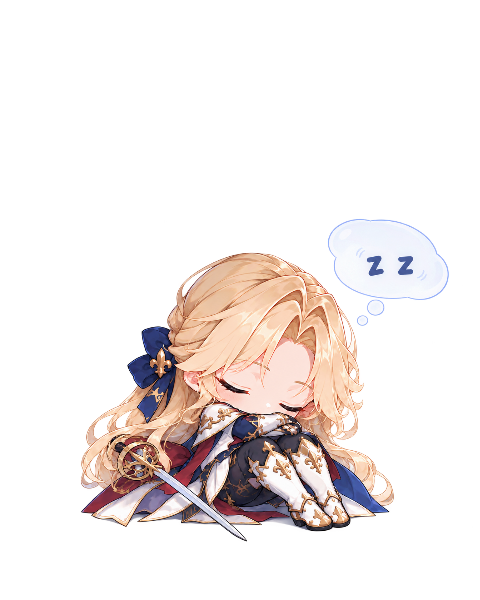
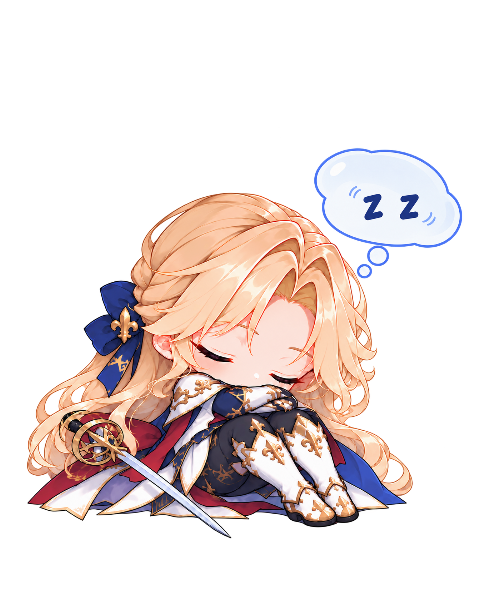
fix: normalize sleep loop frame seven

Changed region(s): [[0.0312, 0.24, 0.9688, 0.9]]

diff --git a/tools/Charlotte.AssetPrep/Program.cs b/tools/Charlotte.AssetPrep/Program.cs
@@ -23,7 +23,10 @@ internal static class Program
     {
         if(args.Length==1 && args[0]=="--list")
         {
-            foreach(var item in Plan) Console.WriteLine($"{item.SourceRelative} -> {item.OutputRelative}");
+            foreach(var item in Plan)
+                Console.WriteLine(item.ProjectOverrideRelative is null
+                    ? $"{item.SourceRelative} -> {item.OutputRelative}"
+                    : $"{item.ProjectOverrideRelative.Replace('\\','/')} => {item.OutputRelative}");
             Console.WriteLine($"Mapped frames: {Plan.Count}");
             return Plan.Count==77?0:1;
         }
@@ -59,17 +62,20 @@ internal static class Program
             var records=new List<SourceRecord>(Plan.Count);
             foreach(var item in Plan)
             {
-                var sourcePath=Path.GetFullPath(Path.Combine(sourceRoot,item.SourceRelative));
-                if(!sourcePath.StartsWith(sourceRoot.TrimEnd(Path.DirectorySeparatorChar)+Path.DirectorySeparatorChar,StringComparison.OrdinalIgnoreCase))
-                    throw new InvalidDataException($"Mapped source escapes reference root: {item.SourceRelative}");
-                if(!File.Exists(sourcePath)) throw new FileNotFoundException($"Mapped source is missing: {item.SourceRelative}");
+                var sourcePath=item.ProjectOverrideRelative is null
+                    ? Path.GetFullPath(Path.Combine(sourceRoot,item.SourceRelative))
+                    : Path.GetFullPath(Path.Combine(parent,item.ProjectOverrideRelative));
+                var expectedRoot=item.ProjectOverrideRelative is null?sourceRoot:parent;
+                if(!sourcePath.StartsWith(expectedRoot.TrimEnd(Path.DirectorySeparatorChar)+Path.DirectorySeparatorChar,StringComparison.OrdinalIgnoreCase))
+                    throw new InvalidDataException($"Mapped source escapes its root: {item.SourceRelative}");
+                if(!File.Exists(sourcePath)) throw new FileNotFoundException($"Mapped source is missing: {item.ProjectOverrideRelative??item.SourceRelative}");
 
                 var source=LoadAlphaPng(sourcePath);
                 var outputPath=Path.Combine(staging,item.OutputRelative);
                 Directory.CreateDirectory(Path.GetDirectoryName(outputPath)!);
                 Save(Render(source,item),outputPath);
                 records.Add(new(
-                    item.SourceRelative.Replace('\\','/'),
+                    item.ProjectOverrideRelative is null?item.SourceRelative.Replace('\\','/'):$"project:{item.ProjectOverrideRelative.Replace('\\','/')}",
                     item.OutputRelative.Replace('\\','/'),
                     Convert.ToHexString(SHA256.HashData(File.ReadAllBytes(sourcePath))).ToLowerInvariant(),
                     source.PixelWidth,
@@ -78,7 +84,7 @@ internal static class Program
                     CanvasHeight,
                     CenterX,
                     GroundY,
-                    item.PreserveExportScale?"sleep-loop-07-transparent-margin-repair":"family-fixed"));
+                    "family-fixed"));
             }
 
             var map=new SourceMap(1,"formal-v1",Plan.Count,records);
@@ -132,11 +138,11 @@ internal static class Program
 
     private static RenderTargetBitmap Render(BitmapSource source,PlanEntry item)
     {
-        var correction=item.PreserveExportScale?1:Math.Min(1,Math.Min(item.CanonicalWidth/source.PixelWidth,item.CanonicalHeight/source.PixelHeight));
+        var correction=Math.Min(1,Math.Min(item.CanonicalWidth/source.PixelWidth,item.CanonicalHeight/source.PixelHeight));
         var canonicalScale=Math.Min(ContentWidth/item.CanonicalWidth,ContentHeight/item.CanonicalHeight);
         var width=source.PixelWidth*correction*canonicalScale;
         var height=source.PixelHeight*correction*canonicalScale;
-        var left=item.PreserveExportScale?0:CenterX-width/2;
+        var left=CenterX-width/2;
         var visual=new DrawingVisual();
         using(var drawing=visual.RenderOpen())
             drawing.DrawImage(source,new Rect(left,GroundY-height,width,height));
@@ -197,7 +203,8 @@ internal static class Program
                 _=>false
             };
             var file=$"{sourceGroup}{(separated?" ":string.Empty)}({index}).png";
-            items.Add(new($"Sleep/{sourceGroup}/{file}",$"{output}/{index:00}.png",1254,1254,sourceGroup=="Sleep_Loop"&&index==7));
+            var projectOverride=sourceGroup=="Sleep_Loop"&&index==7?"source/formal-overrides/sleep-loop-07.png":null;
+            items.Add(new($"Sleep/{sourceGroup}/{file}",$"{output}/{index:00}.png",1254,1254,projectOverride));
         }
     }
 
@@ -226,7 +233,7 @@ internal static class Program
         }
     }
 
-    private sealed record PlanEntry(string SourceRelative,string OutputRelative,double CanonicalWidth,double CanonicalHeight,bool PreserveExportScale=false);
+    private sealed record PlanEntry(string SourceRelative,string OutputRelative,double CanonicalWidth,double CanonicalHeight,string? ProjectOverrideRelative=null);
     private sealed record SourceRecord(string Source,string Output,string Sha256,int SourceWidth,int SourceHeight,int OutputWidth,int OutputHeight,double CenterX,double GroundY,string Transform);
     private sealed record SourceMap(int SchemaVersion,string AssetVersion,int FrameCount,IReadOnlyList<SourceRecord> Frames);
 }

diff --git a/tests/Charlotte.Tests/FormalAssetPrepTests.cs b/tests/Charlotte.Tests/FormalAssetPrepTests.cs
@@ -36,6 +36,7 @@ public class FormalAssetPrepTests
         Assert.DoesNotContain("Battle.png ->",output);
         Assert.DoesNotContain("Drag.png ->",output);
         Assert.DoesNotContain("Walk.png ->",output);
+        Assert.Contains("source/formal-overrides/sleep-loop-07.png => sleep/07.png",output);
     }
 
     private static string FindProjectRoot()
